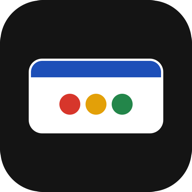
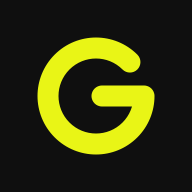
Ícono nuevo: una G amarilla sobre fondo oscuro
Reemplaza el logo del semáforo en el ícono de la app y del navegador.

diff --git a/sw.js b/sw.js
@@ -1,5 +1,5 @@
 // Funciona sin señal: primero la red, si no hay, lo guardado.
-const CACHE = 'gianre-v11';
+const CACHE = 'gianre-v12';
 const BASE = [
   './',
   './index.html',
